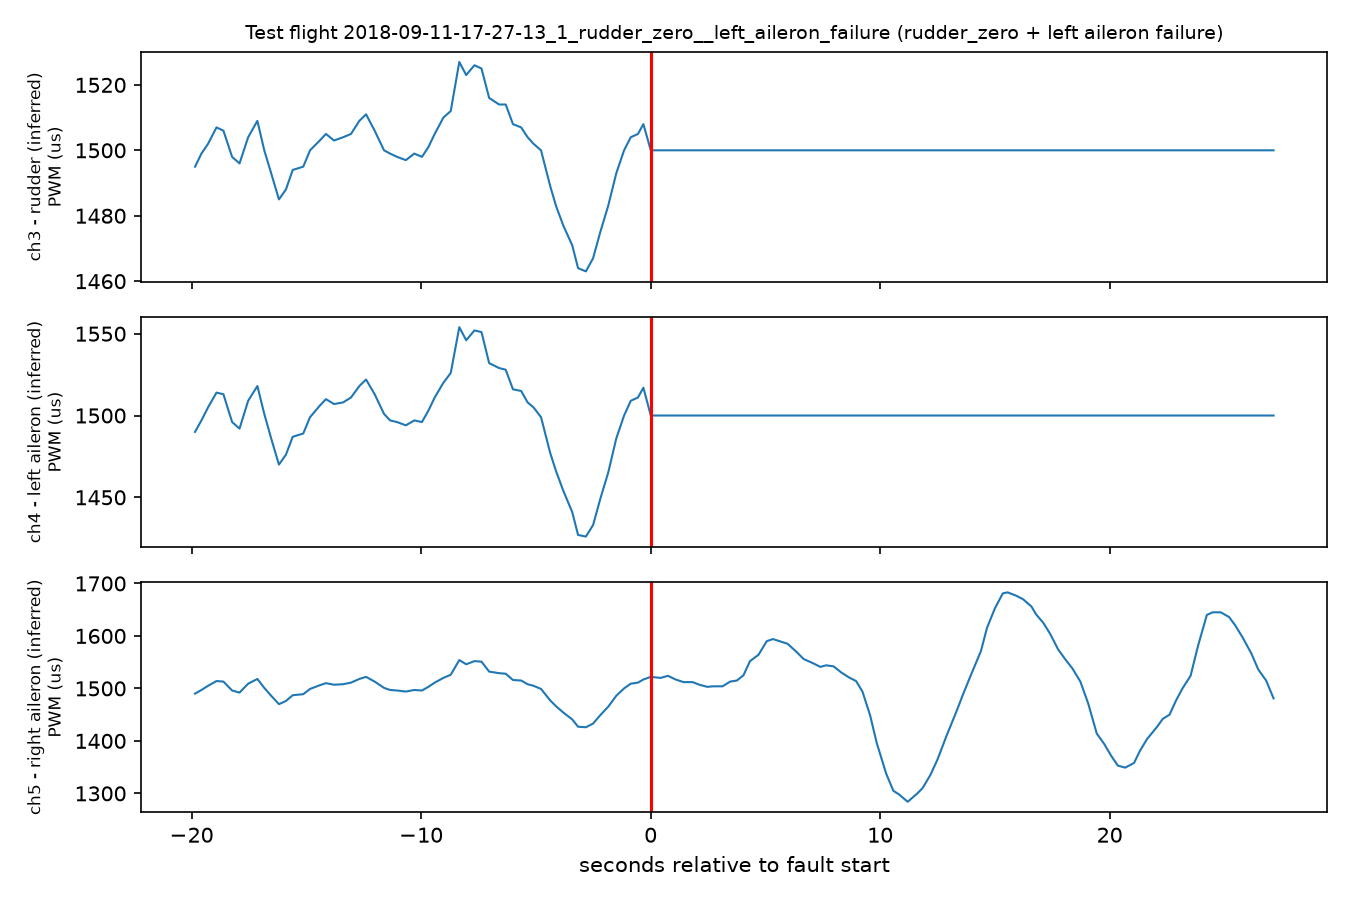
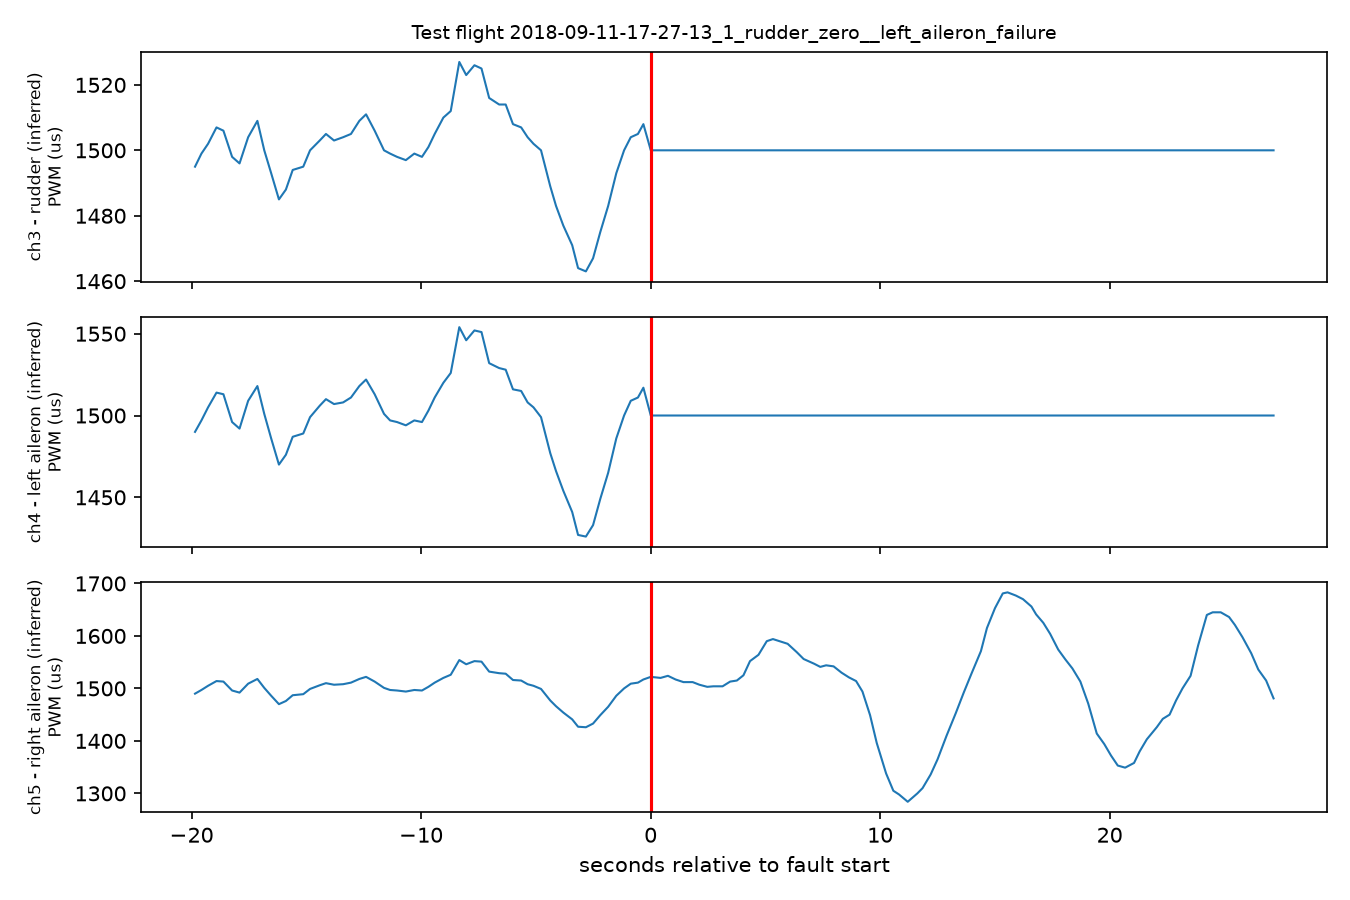
Fix review issues: pytest.ini BOM, results folder, split check, paths, titles, docs; add session overlap check

Changed region(s): [[0.1867, 0.0311, 0.9022, 0.0622]]

diff --git a/src/08_correlation.py b/src/08_correlation.py
@@ -1,7 +1,7 @@
 """Correlation check on dev flights.
 1) Which signals move with the fault label (compared inside each flight).
 2) Which signals duplicate each other (redundancy)."""
-import os
+import os, config
 import numpy as np
 import pandas as pd
 import matplotlib.pyplot as plt
@@ -50,7 +50,7 @@ print("\nfeature pairs with |r| > 0.9:", len(pairs))
 for a, b, r in pairs:
     print(f"  {r:+.2f}  {a}  <->  {b}")
 
-os.makedirs("figures", exist_ok=True)
+os.makedirs(config.PROJECT / "figures", exist_ok=True)
 
 # fig7: feature vs label, per fault type
 data = table.fillna(0).to_numpy()
@@ -66,7 +66,7 @@ for i in range(data.shape[0]):
 fig.colorbar(im, ax=ax, label="within-flight r with the fault label")
 ax.set_title("Which signals move with the fault (inside each flight)")
 fig.tight_layout()
-fig.savefig(os.path.join("figures", "fig7_label_correlation.png"), dpi=150)
+fig.savefig(os.path.join(config.PROJECT, "figures", "fig7_label_correlation.png"), dpi=150)
 plt.close(fig)
 
 # fig6: feature vs feature
@@ -79,6 +79,6 @@ ax.set_yticklabels(cols, fontsize=6)
 fig.colorbar(im, ax=ax, label="correlation r")
 ax.set_title("Which features duplicate each other (dev rows)")
 fig.tight_layout()
-fig.savefig(os.path.join("figures", "fig6_feature_correlation.png"), dpi=150)
+fig.savefig(os.path.join(config.PROJECT, "figures", "fig6_feature_correlation.png"), dpi=150)
 plt.close(fig)
 print("\nsaved figures\\fig6_feature_correlation.png and figures\\fig7_label_correlation.png")

diff --git a/src/17_learning_curve.py b/src/17_learning_curve.py
@@ -2,7 +2,7 @@
 
 Like sklearn's learning_curve, but the training set grows by whole FLIGHTS, not rows, because
 rows from one flight are near-copies of each other."""
-import os
+import os, config
 import numpy as np
 import pandas as pd
 from sklearn.ensemble import RandomForestClassifier
@@ -37,6 +37,8 @@ for frac in FRACS:
                 ytr = tr["label"].to_numpy(int)
                 if 0 < ytr.sum() < len(ytr):
                     break
+            else:
+                raise SystemExit(f"no subset with both classes after 20 draws (fold {f}, frac {frac})")
             model = RandomForestClassifier(n_estimators=300, min_samples_leaf=5,
                                            class_weight="balanced_subsample",
                                            random_state=draw, n_jobs=-1)
@@ -48,8 +50,8 @@ for frac in FRACS:
     print("training share", frac, "done")
 
 out = pd.DataFrame(rows)
-os.makedirs("results", exist_ok=True)
-out.to_csv(os.path.join("results", "learning_curve.csv"), index=False)
+os.makedirs(config.PROJECT / "results", exist_ok=True)
+out.to_csv(os.path.join(config.PROJECT, "results", "learning_curve.csv"), index=False)
 
 per_fold = out.groupby(["frac", "fold"])[["n_flights", "ap", "f1"]].mean()
 table = per_fold.groupby("frac").agg(n_flights=("n_flights", "mean"),

diff --git a/src/12_conformal_threshold.py b/src/12_conformal_threshold.py
@@ -4,7 +4,7 @@ For each fold, the threshold is the (1 - alpha) quantile of the scores of NORMAL
 OTHER folds, with the usual conformal correction. The fold being scored never sets its own
 threshold. Then we check on that fold whether the promised false-alarm rate really holds."""
 import math
-import os
+import os, config
 import numpy as np
 import pandas as pd
 import evalkit
@@ -12,7 +12,7 @@ import evalkit
 ALPHAS = [0.05, 0.02, 0.01]
 K_PERSIST = 3
 
-oof = pd.read_csv(os.path.join("results", "oof_predictions.csv"))
+oof = pd.read_csv(os.path.join(config.PROJECT, "results", "oof_predictions.csv"))
 folds = sorted(oof["role"].unique())
 print("folds:", folds, "| rows:", len(oof), "| normal seconds:", int((oof["label"] == 0).sum()))
 
@@ -38,8 +38,8 @@ for f in folds:
         rows.append(res)
 
 out = pd.DataFrame(rows)
-os.makedirs("results", exist_ok=True)
-out.to_csv(os.path.join("results", "conformal_threshold.csv"), index=False)
+os.makedirs(config.PROJECT / "results", exist_ok=True)
+out.to_csv(os.path.join(config.PROJECT, "results", "conformal_threshold.csv"), index=False)
 
 order = ["fixed 0.5"] + [f"alpha={a}" for a in ALPHAS]
 metrics = ["threshold", "raw_fa_rate", "f1", "prec", "rec_eng", "rec_oth", "fa_s_per_min", "med_delay_s"]

diff --git a/src/13_conformal_models.py b/src/13_conformal_models.py
@@ -5,7 +5,7 @@ Same method as 12_conformal_threshold.py, but on the out-of-fold probabilities s
 NORMAL-second scores of the other folds, same model and same seed. Results are averaged over folds
 and seeds."""
 import math
-import os
+import os, config
 import numpy as np
 import pandas as pd
 import evalkit
@@ -13,7 +13,7 @@ import evalkit
 ALPHAS = [0.05, 0.02, 0.01]
 K_PERSIST = 3
 
-oof = pd.read_csv(os.path.join("results", "oof_models.csv"))
+oof = pd.read_csv(os.path.join(config.PROJECT, "results", "oof_models.csv"))
 models = sorted(oof["model"].unique())
 seeds = sorted(oof["seed"].unique())
 print("rows:", len(oof), "(expected 49185) | models:", models, "| seeds:", seeds)
@@ -44,8 +44,8 @@ for model in models:
                 rows.append(res)
 
 out = pd.DataFrame(rows)
-os.makedirs("results", exist_ok=True)
-out.to_csv(os.path.join("results", "conformal_models.csv"), index=False)
+os.makedirs(config.PROJECT / "results", exist_ok=True)
+out.to_csv(os.path.join(config.PROJECT, "results", "conformal_models.csv"), index=False)
 
 order = ["fixed 0.5"] + [f"alpha={a}" for a in ALPHAS]
 metrics = ["threshold", "raw_fa_rate", "f1", "prec", "rec_eng", "rec_oth", "fa_s_per_min", "med_delay_s"]

diff --git a/src/20_session_overlap.py b/src/20_session_overlap.py
@@ -1,0 +1,26 @@
+"""Check whether sessions overlap in time (ROADMAP item 31).
+Prints each session's IMU time range and flags sessions that start before the previous one ends."""
+import re
+import pandas as pd
+import config
+
+ROOT = config.DATA / "alfa" / "processed" / "processed"
+split = pd.read_csv(config.DATA / "split.csv")
+role = dict(zip(split["session"], split["role"]))
+
+rows = []
+for f in sorted(p for p in ROOT.iterdir() if p.is_dir()):
+    m = re.search(r"carbonZ_(\d{4}-\d\d-\d\d-\d\d-\d\d-\d\d)", f.name)
+    t = pd.read_csv(f / f"{f.name}-mavros-imu-data.csv", usecols=["%time"])["%time"]
+    rows.append((m.group(1), t.iloc[0] / 1e9, t.iloc[-1] / 1e9))
+
+s = (pd.DataFrame(rows, columns=["session", "start", "end"])
+     .groupby("session").agg(start=("start", "min"), end=("end", "max")).sort_values("start"))
+s["role"] = s.index.map(role)
+s["gap_s"] = s["start"] - s["end"].shift()
+s["overlap"] = s["gap_s"] < 0
+print(s[["role", "gap_s", "overlap"]].round(1).to_string())
+bad = s[s["overlap"] & (s["role"] != s["role"].shift())]
+print("\noverlapping sessions in different groups:", len(bad))
+if len(bad):
+    print(bad[["role", "gap_s"]].round(1).to_string())

diff --git a/src/02_make_split.py b/src/02_make_split.py
@@ -45,7 +45,7 @@ fl = (table.groupby("flight")
 fl["role"] = fl["session"].map(ASSIGN)
 if fl["role"].isna().any():
     print(fl[fl["role"].isna()])
-    raise SystemExit("some sessions have no assignment - tell Claude")
+    raise SystemExit("some sessions have no assignment: add them to ASSIGN")
 fl["fault_group"] = np.where(fl.fault_type == "none", "none",
                              np.where(fl.fault_type == "engine", "engine", "other"))
 
@@ -58,8 +58,10 @@ summary = fl.groupby("role").agg(
     rows=("rows", "sum"), fault_rows=("fault_rows", "sum"),
     biggest_flight_share=("share", "max"))
 print(summary.round(2).to_string())
-print("\nsessions split across more than one part (must be 0):",
-      int((fl.groupby("session")["role"].nunique() > 1).sum()))
+n_split = int((fl.groupby("session")["role"].nunique() > 1).sum())
+print("\nsessions split across more than one part (must be 0):", n_split)
+if n_split:
+    raise SystemExit("a session appears in two groups")
 print("total rows:", int(fl["rows"].sum()), " total fault rows:", int(fl["fault_rows"].sum()))
 print("\nLOCKED TEST FLIGHTS (do not tune on these):")
 for _, r in fl[fl.role == "test"].iterrows():

diff --git a/src/14_dummy_baseline.py b/src/14_dummy_baseline.py
@@ -3,7 +3,7 @@
 'prior' always outputs the fault rate of the training folds -> its average precision equals the
 share of fault seconds in the test fold (the chance level).
 'stratified' guesses fault / normal at random with the training fault rate, 20 random draws."""
-import os
+import os, config
 import numpy as np
 import pandas as pd
 import evalkit
@@ -13,7 +13,7 @@ from sklearn.metrics import average_precision_score
 K_PERSIST = 3
 N_DRAWS = 20
 
-oof = pd.read_csv(os.path.join("results", "oof_models.csv"))
+oof = pd.read_csv(os.path.join(config.PROJECT, "results", "oof_models.csv"))
 rows_src = oof[(oof["model"] == "forest") & (oof["seed"] == 0)]   # row identity only, features unused
 folds = sorted(rows_src["role"].unique())
 
@@ -47,5 +47,5 @@ cols = ["f1", "prec", "rec_eng", "rec_oth", "fa_s_per_min"]
 print(strat[cols].mean().round(3).to_string())
 
 print("\nSame measures for the real models (fixed 0.5, from the model comparison):")
-mc = pd.read_csv(os.path.join("results", "model_comparison.csv"))
+mc = pd.read_csv(os.path.join(config.PROJECT, "results", "model_comparison.csv"))
 print(mc.groupby("model")[cols + ["ap"]].mean().round(3).to_string())

diff --git a/src/10_comparison_figure.py b/src/10_comparison_figure.py
@@ -1,9 +1,9 @@
 """Figure 8: model comparison (reads results/model_comparison.csv)."""
-import os
+import os, config
 import pandas as pd
 import matplotlib.pyplot as plt
 
-out = pd.read_csv(os.path.join("results", "model_comparison.csv"))
+out = pd.read_csv(os.path.join(config.PROJECT, "results", "model_comparison.csv"))
 models = ["forest", "catboost", "mlp"]
 colors = {"forest": "#4c72b0", "catboost": "#dd8452", "mlp": "#55a868"}
 
@@ -37,12 +37,12 @@ for m in models:
                 s=140, edgecolor="black", label=m, zorder=3)
 ax2.set_xlabel("false-alarm seconds per minute of normal flight")
 ax2.set_ylabel("engine-fault recall")
-ax2.set_title("Higher recall came with more false alarms (model means)")
+ax2.set_title("Engine recall vs false alarms (model means)")
 ax2.legend(title="big dot = mean, small dots = folds")
 
 fig.tight_layout()
-os.makedirs("figures", exist_ok=True)
-path = os.path.join("figures", "fig8_model_comparison.png")
+os.makedirs(config.PROJECT / "figures", exist_ok=True)
+path = os.path.join(config.PROJECT, "figures", "fig8_model_comparison.png")
 fig.savefig(path, dpi=150)
 plt.close(fig)
 print("saved", path)

diff --git a/src/15_calibration.py b/src/15_calibration.py
@@ -1,5 +1,5 @@
 """Self-check 2: are the model scores trustworthy as probabilities? (dev folds, seed 0, out-of-fold)"""
-import os
+import os, config
 import numpy as np
 import pandas as pd
 import matplotlib
@@ -8,7 +8,7 @@ import matplotlib.pyplot as plt
 from sklearn.calibration import calibration_curve
 from sklearn.metrics import brier_score_loss
 
-oof = pd.read_csv(os.path.join("results", "oof_models.csv"))
+oof = pd.read_csv(os.path.join(config.PROJECT, "results", "oof_models.csv"))
 oof = oof[oof["seed"] == 0]
 prev = oof[oof["model"] == "forest"]["label"].mean()
 print("Fault share:", round(prev, 3),
@@ -37,7 +37,7 @@ ax.set_title("Calibration on held-out folds")
 ax.legend(loc="upper left", frameon=False)
 ax.set_xlim(0, 1)
 ax.set_ylim(0, 1)
-os.makedirs("figures", exist_ok=True)
+os.makedirs(config.PROJECT / "figures", exist_ok=True)
 fig.tight_layout()
-fig.savefig(os.path.join("figures", "fig9_calibration.png"), dpi=150)
+fig.savefig(os.path.join(config.PROJECT, "figures", "fig9_calibration.png"), dpi=150)
 print("\nsaved figures\\fig9_calibration.png")

diff --git a/src/09_model_comparison.py b/src/09_model_comparison.py
@@ -1,6 +1,6 @@
 """Model comparison on the dev folds: random forest vs CatBoost vs a small Keras network.
 Dev flights only. The locked test set is not used."""
-import os
+import os, config
 os.environ["TF_CPP_MIN_LOG_LEVEL"] = "2"
 os.environ["KERAS_BACKEND"] = "tensorflow"
 import time
@@ -88,10 +88,10 @@ for name in ["forest", "catboost", "mlp"]:
             rows.append(res)
     print(f"{name} finished in {time.time() - t0:.0f} s")
 
-pd.concat(saved).to_csv(os.path.join("results", "oof_models.csv"), index=False)
+os.makedirs(config.PROJECT / "results", exist_ok=True)
+pd.concat(saved).to_csv(os.path.join(config.PROJECT, "results", "oof_models.csv"), index=False)
 out = pd.DataFrame(rows)
-os.makedirs("results", exist_ok=True)
-out.to_csv(os.path.join("results", "model_comparison.csv"), index=False)
+out.to_csv(os.path.join(config.PROJECT, "results", "model_comparison.csv"), index=False)
 
 metrics = ["f1", "prec", "rec_eng", "rec_oth", "fa_s_per_min", "med_delay_s", "ap"]
 per_seed = out.groupby(["model", "seed"])[metrics].mean()

diff --git a/src/05_figures.py b/src/05_figures.py
@@ -13,7 +13,7 @@ import evalkit
 from evalkit import load, feature_lists, fit_rule, apply_rule, persist
 
 evalkit.TABLE = str(config.DATA / r"table2.csv")
-ROOT = Path(str(config.DATA / r"alfa\processed\processed"))
+ROOT = config.DATA / "alfa" / "processed" / "processed"
 os.makedirs(str(config.PROJECT / "figures"), exist_ok=True)
 
 df = load()
@@ -73,7 +73,7 @@ for a, ch, name in zip(ax, (3, 4, 5), ("ch3 - rudder (inferred)", "ch4 - left ai
     a.plot(d["rel"], d[f"field.channels{ch}"], lw=1)
     a.axvline(0, color="red")
     a.set_ylabel(name + "\nPWM (us)", fontsize=8)
-ax[0].set_title("Test flight " + fl2 + " (rudder_zero + left aileron failure)", fontsize=9)
+ax[0].set_title("Test flight " + fl2, fontsize=9)
 ax[2].set_xlabel("seconds relative to fault start")
 fig.tight_layout()
 fig.savefig(str(config.PROJECT / "figures" / r"fig2_frozen_channels.png"), dpi=150)

diff --git a/src/16_permutation_importance.py b/src/16_permutation_importance.py
@@ -2,7 +2,7 @@
 
 Permutation importance = drop in average precision on a held-out fold when one feature's values are
 shuffled. Duplicated features share credit, so a group test shuffles related columns together."""
-import os
+import os, config
 import numpy as np
 import pandas as pd
 from sklearn.ensemble import RandomForestClassifier
@@ -59,8 +59,8 @@ for f in folds:
     print("fold", f, "done")
 
 pf = pd.concat(per_fold)
-os.makedirs("results", exist_ok=True)
-pf.to_csv(os.path.join("results", "permutation_importance.csv"), index=False)
+os.makedirs(config.PROJECT / "results", exist_ok=True)
+pf.to_csv(os.path.join(config.PROJECT, "results", "permutation_importance.csv"), index=False)
 imp = pf.groupby("feature")["drop"].agg(["mean", "std"]).sort_values("mean", ascending=False)
 
 print("\nTop 12 features: mean AP drop over 5 folds (std = spread between folds)")
